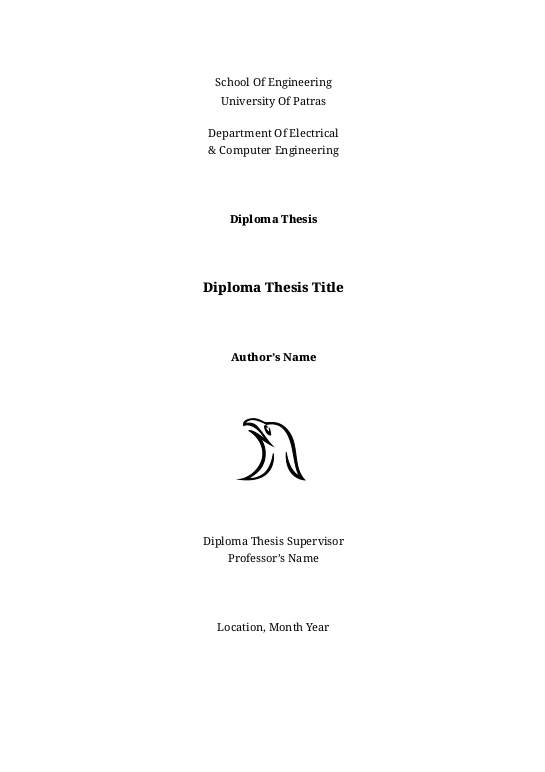
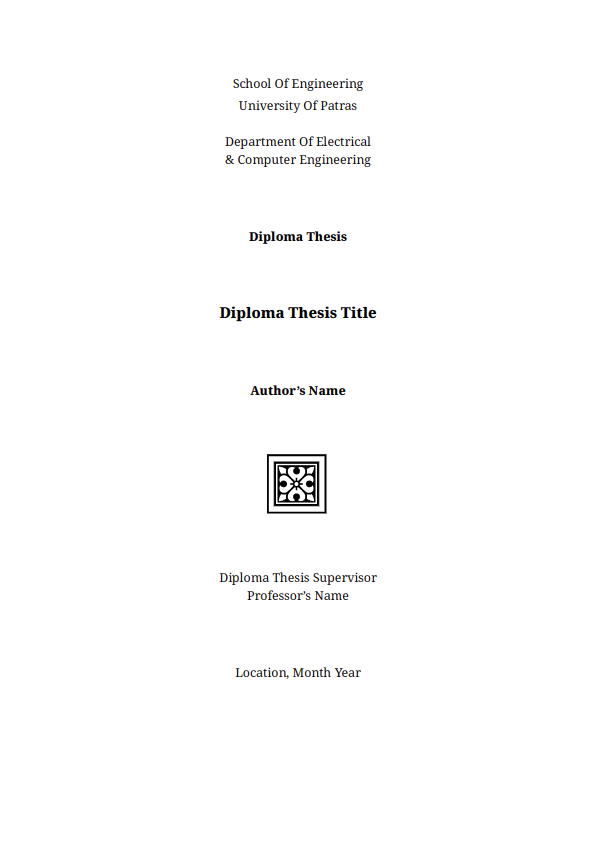
Changed cover page ornament.

diff --git a/Miscellaneous/English_Cover.tex b/Miscellaneous/English_Cover.tex
@@ -27,7 +27,7 @@ Department Of Electrical\\
 
 \vspace{2cm}
 
-\pgfornament[width = 2.5cm]{135}
+\pgfornament[width = 2cm]{7}
 
 \vspace{2cm}
 

diff --git a/Miscellaneous/Hellenic_Cover.tex b/Miscellaneous/Hellenic_Cover.tex
@@ -30,7 +30,7 @@
 
 \vspace{2cm}
 
-\pgfornament[width = 2.5cm]{135}
+\pgfornament[width = 2cm]{7}
 
 \vspace{2cm}
 

diff --git a/README.md b/README.md
@@ -4,7 +4,7 @@
 
 ## Instructions for Use
 
-The best way to use this template is to download it as a zip file and upload it as it is (as a zip file) to Overleaf. Overleaf is an online LaTeX editor and has pre-installed all the necessary packages to compile this template into a PDF file.
+The best way to use this template is to download it as a zip file and upload it as it is (as a zip file) to Overleaf.Overleaf is an online LaTeX editor and has pre-installed all the necessary packages to compile this template into a PDF file.
 
 Should you decide to proceed with this method then, once you sign in to your Overleaf account, you must open the Menu button on the top left corner and choose `XeLaTeX` as the compiler and the `Thesis.tex` as the main document.
 
